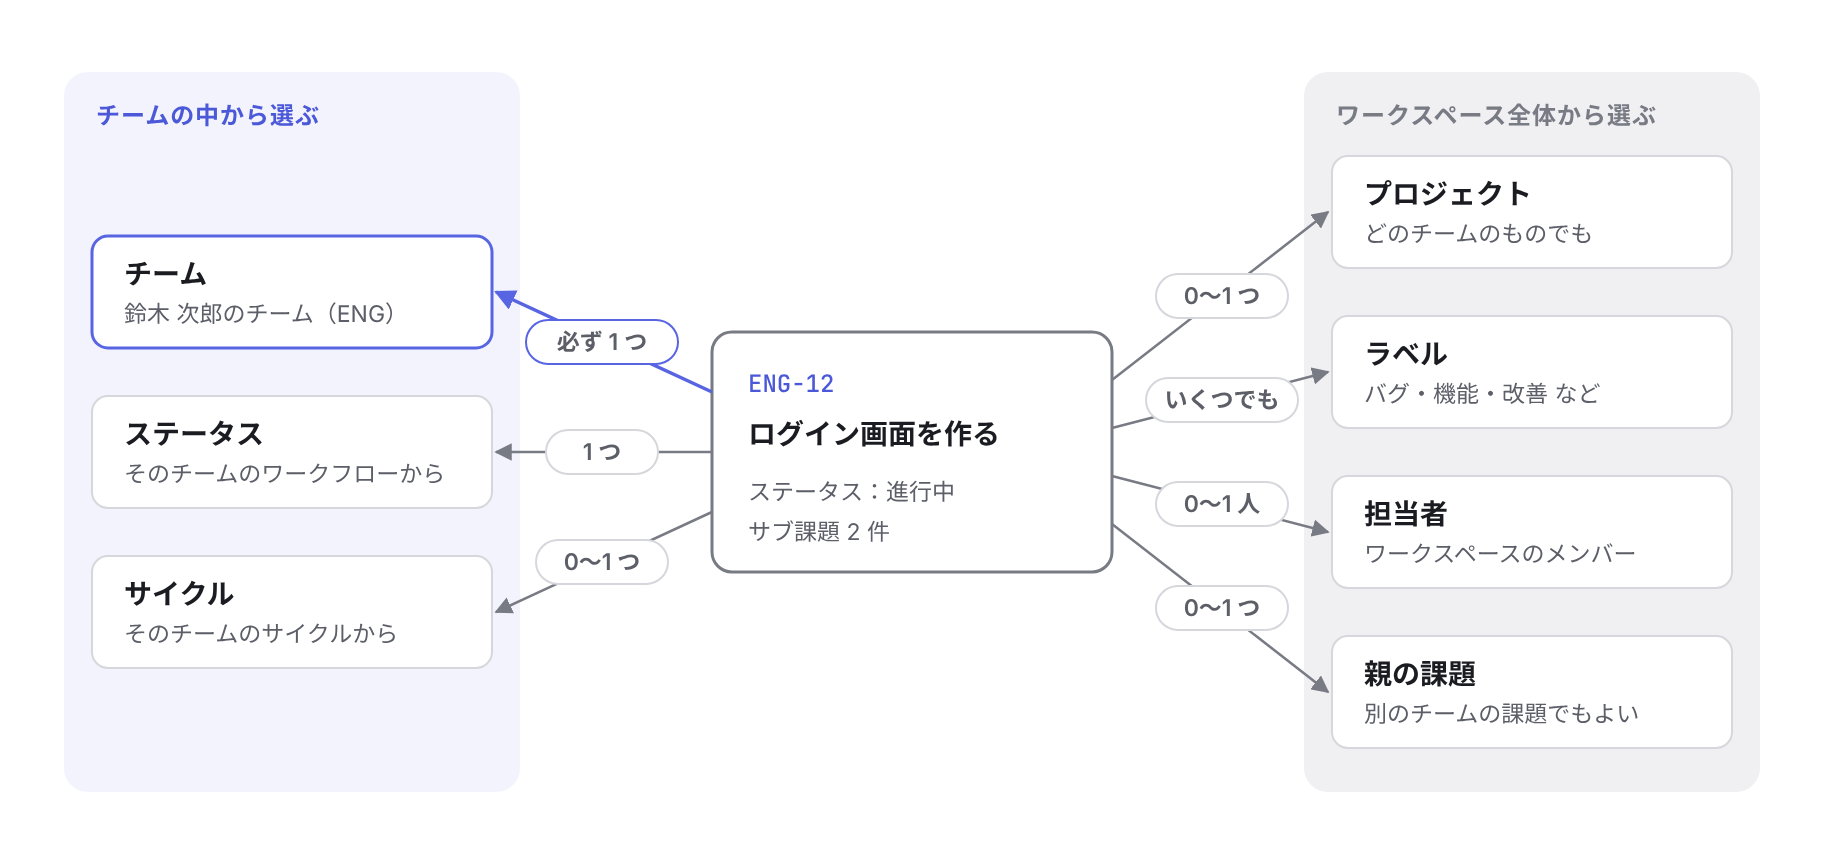
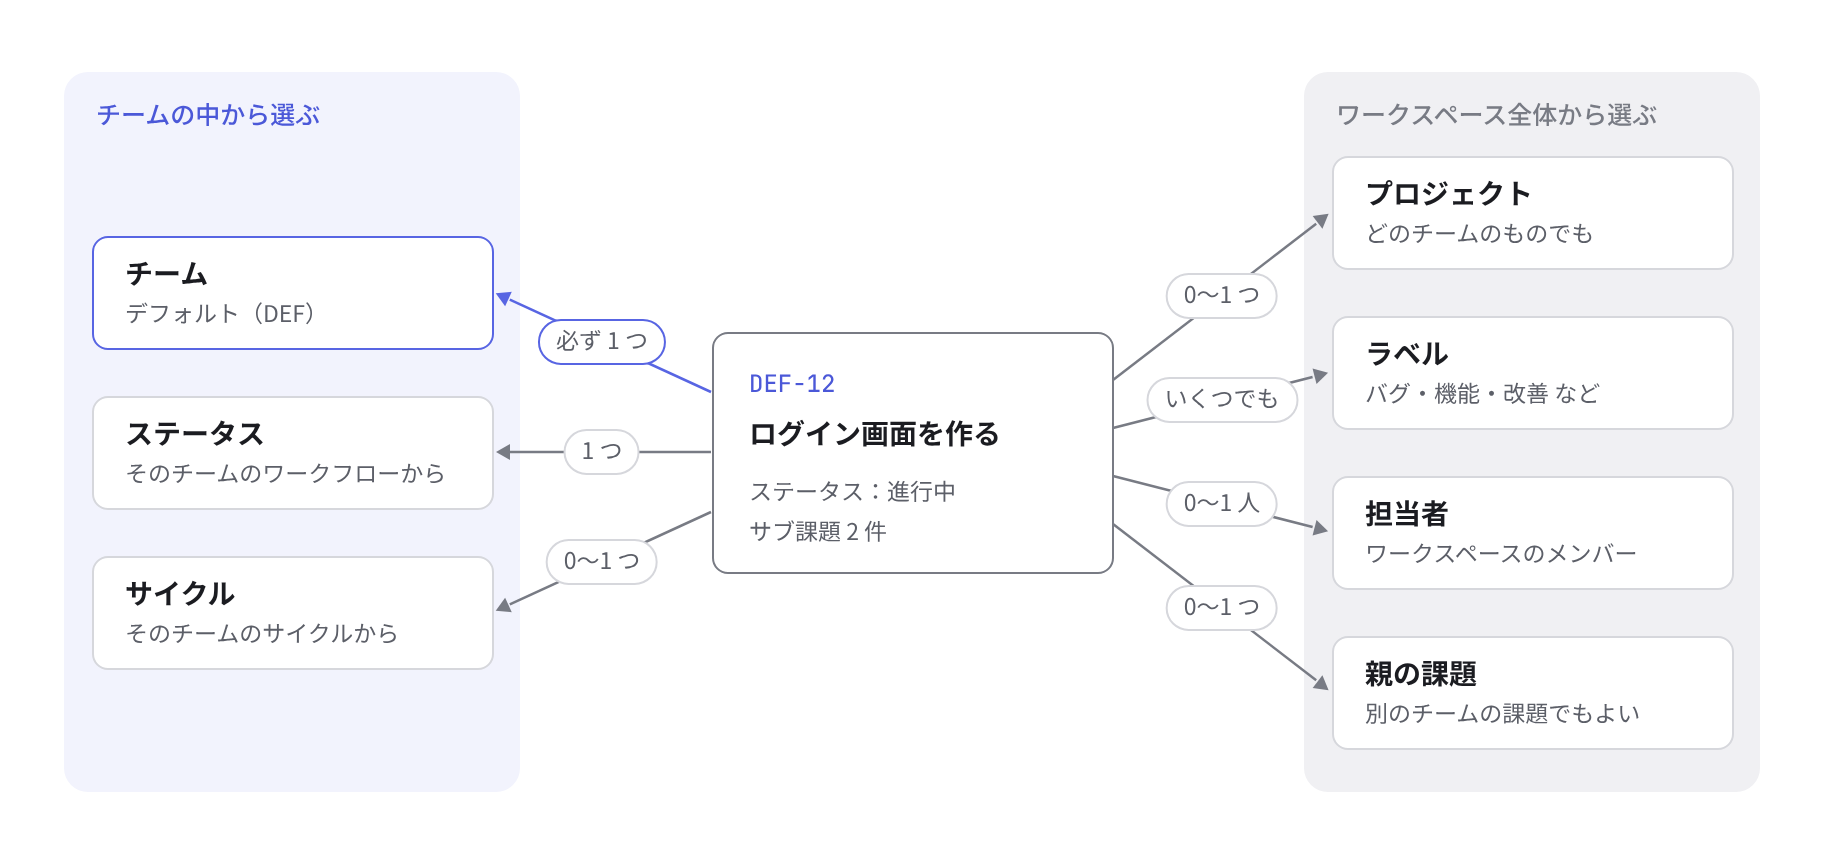
README の図「1 つの課題から見たつながり」をチーム「デフォルト」（DEF）で作り直す
- 図の元データ docs/diagrams/issue-links.html を追加
- issue-links の PNG（ライト・ダーク）を書き出し直す

Claude-Session: https://claude.ai/code/session_01QjZbnsehNPyMXhKnuroriF

diff --git a/docs/diagrams/issue-links.html b/docs/diagrams/issue-links.html
@@ -1,0 +1,259 @@
+<!-- bun run diagrams で docs/images/ に書き出す -->
+<!DOCTYPE html>
+<html lang="ja">
+<head>
+<meta charset="utf-8">
+<title>課題のつながり</title>
+<style>
+  :root {
+    --bg: #ffffff;
+    --frame: #f7f7f9;
+    --frame-border: #d6d7dc;
+    --surface: #ffffff;
+    --card: #f7f7f9;
+    --line: #e7e7eb;
+    --text: #1b1c21;
+    --muted: #5c5f68;
+    --label: #787b84;
+    --accent: #5865e3;
+    --accent-text: #4b58d8;
+    --team: #f2f3fd;
+    --ws: #f0f0f3;
+    --pink: #c93d88;
+    --green: #1e8a5b;
+    color-scheme: light;
+  }
+
+  @media (prefers-color-scheme: dark) {
+    :root {
+      --bg: #111215;
+      --frame: #17181b;
+      --frame-border: #2d2f34;
+      --surface: #111215;
+      --card: #17181b;
+      --line: #212226;
+      --text: #e6e6e9;
+      --muted: #a1a3a9;
+      --label: #7d7f86;
+      --accent: #6470e8;
+      --accent-text: #a0a8ff;
+      --team: #1a1d2e;
+      --ws: #1c1d21;
+      --pink: #e255a1;
+      --green: #3fb27f;
+      color-scheme: dark;
+    }
+  }
+
+  * { box-sizing: border-box; margin: 0; padding: 0; }
+
+  html, body {
+    width: 912px;
+    height: 432px;
+    margin: 0;
+    background: var(--bg);
+    overflow: hidden;
+  }
+
+  body {
+    position: relative;
+    font-family: "Noto Sans JP", "Hiragino Sans", sans-serif;
+    color: var(--text);
+    -webkit-font-smoothing: antialiased;
+  }
+
+  .panel {
+    position: absolute;
+    top: 36px;
+    width: 228px;
+    height: 360px;
+    border-radius: 12px;
+  }
+
+  .panel.team { left: 32px; background: var(--team); }
+  .panel.ws { left: 652px; background: var(--ws); }
+
+  .panel h2 {
+    position: absolute;
+    top: 15px;
+    left: 16px;
+    font-size: 12.5px;
+    font-weight: 500;
+    line-height: 1;
+  }
+
+  .panel.team h2 { color: var(--accent-text); }
+  .panel.ws h2 { color: var(--label); }
+
+  .card {
+    position: absolute;
+    left: 13.5px;
+    width: 201px;
+    height: 57px;
+    background: var(--bg);
+    border: 1px solid var(--frame-border);
+    border-radius: 8px;
+    padding: 11px 16px 0;
+  }
+
+  .panel.team .card:nth-of-type(1) { top: 81.5px; }
+  .panel.team .card:nth-of-type(2) { top: 161.5px; }
+  .panel.team .card:nth-of-type(3) { top: 241.5px; }
+
+  .panel.ws .card:nth-of-type(1) { top: 41.5px; }
+  .panel.ws .card:nth-of-type(2) { top: 121.5px; }
+  .panel.ws .card:nth-of-type(3) { top: 201.5px; }
+  .panel.ws .card:nth-of-type(4) { top: 281.5px; }
+
+  .card.accent { border-color: var(--accent); }
+
+  .card h3 {
+    font-size: 14px;
+    font-weight: 700;
+    line-height: 1;
+  }
+
+  .card p {
+    margin-top: 7px;
+    font-size: 11.5px;
+    font-weight: 400;
+    line-height: 1.2;
+    color: var(--muted);
+    white-space: nowrap;
+  }
+
+  .issue {
+    position: absolute;
+    left: 355.5px;
+    top: 165.5px;
+    width: 201px;
+    height: 121px;
+    background: var(--bg);
+    border: 1px solid var(--label);
+    border-radius: 8px;
+    padding: 19px 18px 0;
+  }
+
+  .issue .key {
+    font-family: "JetBrains Mono", ui-monospace, monospace;
+    font-size: 12px;
+    font-weight: 500;
+    line-height: 1;
+    color: var(--accent-text);
+  }
+
+  .issue .name {
+    margin-top: 11px;
+    font-size: 14px;
+    font-weight: 700;
+    line-height: 1.15;
+  }
+
+  .issue .meta {
+    margin-top: 11px;
+    font-size: 11.5px;
+    font-weight: 400;
+    line-height: 20px;
+    color: var(--muted);
+  }
+
+  svg.links {
+    position: absolute;
+    left: 0;
+    top: 0;
+    width: 912px;
+    height: 432px;
+  }
+
+  .pill {
+    position: absolute;
+    height: 23px;
+    border-radius: 12px;
+    border: 1px solid var(--frame-border);
+    background: var(--bg);
+    color: var(--muted);
+    font-size: 11.5px;
+    font-weight: 400;
+    line-height: 1;
+    white-space: nowrap;
+    display: flex;
+    align-items: center;
+    justify-content: center;
+    padding: 0 8px;
+    transform: translate(-50%, -50%);
+  }
+
+  .pill.accent { border-color: var(--accent); }
+</style>
+</head>
+<body>
+  <section class="panel team">
+    <h2>チームの中から選ぶ</h2>
+    <div class="card accent">
+      <h3>チーム</h3>
+      <p>デフォルト（DEF）</p>
+    </div>
+    <div class="card">
+      <h3>ステータス</h3>
+      <p>そのチームのワークフローから</p>
+    </div>
+    <div class="card">
+      <h3>サイクル</h3>
+      <p>そのチームのサイクルから</p>
+    </div>
+  </section>
+
+  <section class="panel ws">
+    <h2>ワークスペース全体から選ぶ</h2>
+    <div class="card">
+      <h3>プロジェクト</h3>
+      <p>どのチームのものでも</p>
+    </div>
+    <div class="card">
+      <h3>ラベル</h3>
+      <p>バグ・機能・改善 など</p>
+    </div>
+    <div class="card">
+      <h3>担当者</h3>
+      <p>ワークスペースのメンバー</p>
+    </div>
+    <div class="card">
+      <h3>親の課題</h3>
+      <p>別のチームの課題でもよい</p>
+    </div>
+  </section>
+
+  <svg class="links" viewBox="0 0 912 432" aria-hidden="true">
+    <g fill="none" stroke-width="1.25" stroke-linecap="butt">
+      <line stroke="var(--accent)" x1="355.50" y1="196.00" x2="254.90" y2="149.85" />
+      <line stroke="var(--label)" x1="355.50" y1="226.00" x2="255.00" y2="226.00" />
+      <line stroke="var(--label)" x1="355.50" y1="256.00" x2="254.90" y2="302.15" />
+      <line stroke="var(--label)" x1="556.50" y1="190.00" x2="658.10" y2="111.88" />
+      <line stroke="var(--label)" x1="556.50" y1="214.00" x2="656.30" y2="188.49" />
+      <line stroke="var(--label)" x1="556.50" y1="238.00" x2="656.30" y2="263.51" />
+      <line stroke="var(--label)" x1="556.50" y1="262.00" x2="658.10" y2="340.12" />
+    </g>
+    <polygon fill="var(--accent)" points="247.86,146.63 255.89,145.91 252.56,153.18" />
+    <polygon fill="var(--label)" points="248.00,226.00 255.00,222.00 255.00,230.00" />
+    <polygon fill="var(--label)" points="247.86,305.37 252.56,298.82 255.89,306.09" />
+    <polygon fill="var(--label)" points="664.31,106.92 661.21,114.36 656.33,108.02" />
+    <polygon fill="var(--label)" points="664.05,186.37 658.26,191.99 656.27,184.24" />
+    <polygon fill="var(--label)" points="664.05,265.63 656.27,267.76 658.26,260.01" />
+    <polygon fill="var(--label)" points="664.31,345.08 656.33,343.98 661.21,337.64" />
+  </svg>
+
+  <div class="issue">
+    <div class="key">DEF-12</div>
+    <div class="name">ログイン画面を作る</div>
+    <div class="meta">ステータス：進行中<br>サブ課題 2 件</div>
+  </div>
+
+  <div class="pill accent" style="left:301px;top:171px">必ず 1 つ</div>
+  <div class="pill" style="left:301px;top:226px">1 つ</div>
+  <div class="pill" style="left:301px;top:281px">0〜1 つ</div>
+  <div class="pill" style="left:611px;top:148px">0〜1 つ</div>
+  <div class="pill" style="left:611px;top:200px">いくつでも</div>
+  <div class="pill" style="left:611px;top:252px">0〜1 人</div>
+  <div class="pill" style="left:611px;top:304px">0〜1 つ</div>
+</body>
+</html>
